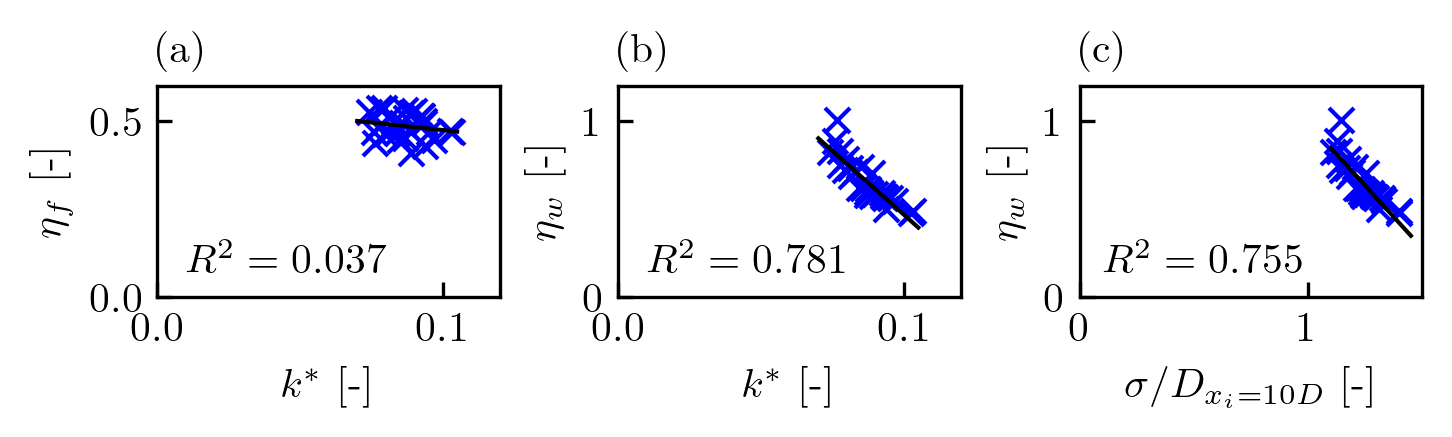
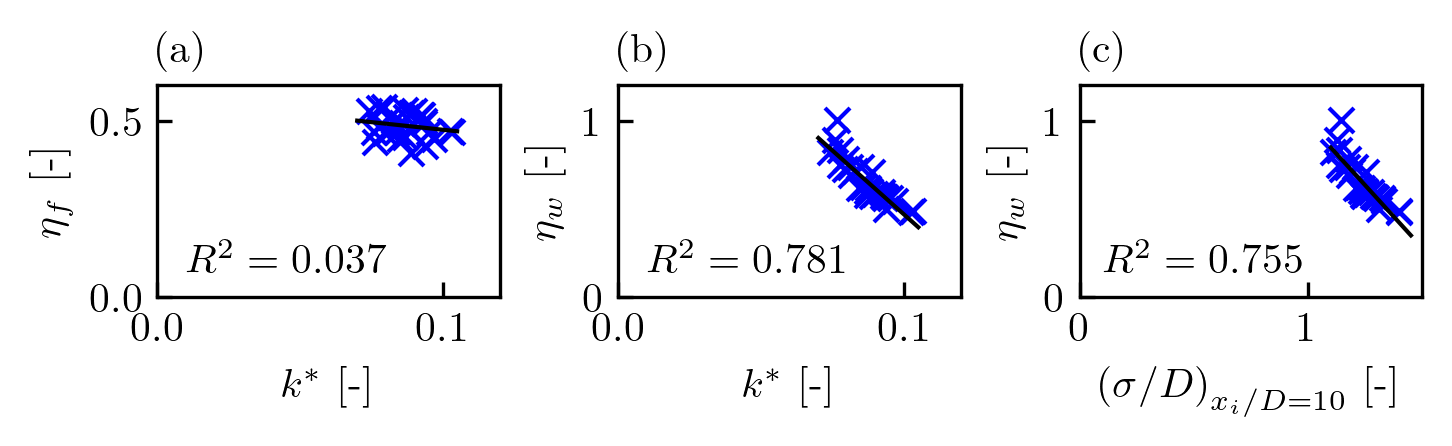
Update figures

diff --git a/paper_figures/aligned_loss_factors/plot_aligned_loss_factors.py b/paper_figures/aligned_loss_factors/plot_aligned_loss_factors.py
@@ -7,7 +7,7 @@ plt.style.use("../style.mplstyle")
 textwidth = 7
 golden_ratio = 1.61803
 cm = 1/2.54
-fig, ax = plt.subplots(figsize=[12*cm,12*cm/(2.5*golden_ratio)], dpi=300)
+fig, ax = plt.subplots(figsize=[12*cm,12*cm/(golden_ratio)], dpi=300)
 
 #load csv file of farm loss factors
 loss_factors = np.genfromtxt('../loss_factors.csv', delimiter=',', dtype=None, names=True, encoding=None)
@@ -37,27 +37,33 @@ index_mask = [5, 40, 15, 41, 25, 42]
 
 tab20 = mpl.colormaps['tab20']
 
-ax.bar(np.arange(6), 1-tsl[index_mask], width=0.2, label=r'$\eta_{TS}$', color=tab20(0))
 ax.bar(np.arange(6)-0.2, total_loss[index_mask], width=0.2, label=r'$C_p/C_{p,Betz}$', color='k')
+ax.bar(np.arange(6), 1-tsl[index_mask], width=0.2, label=r'$\eta_{TS}$', color=tab20(0))
 ax.bar(np.arange(6)+0.2, 1-fsl[index_mask], width=0.2, label=r'$\eta_{FS}$', color=tab20(2))
-ax.set_ylim([0,1.6])
+ax.set_ylim([0,1.1])
 ax.axvline(1.5, c='grey')
 ax.axvline(3.5, c='grey')
-ax.set_xticks(np.arange(6), [r'S', r'A', r'S', r'A', r'S', r'A'], rotation=0)
-ax.text(0.5, 1.55, r'H1000-'+'\n'+r'C5-G4', ha='center', va='top', ma='center')
-ax.text(2.5, 1.55, r'H500-'+'\n'+r'C5-G4', ha='center', va='top', ma='center')
-ax.text(4.5, 1.55, r'H300-'+'\n'+r'C5-G4', ha='center', va='top', ma='center')
-ax.legend(loc='upper center', bbox_to_anchor=(0.5, -0.2), ncol=2)
+ax.set_xticks(np.arange(6), [r'Staggered', r'Aligned', r'Staggered', r'Aligned', r'Staggered', r'Aligned'], rotation=0)
+ax.text(0.5, 1.1, r'H1000-C5-G4', ha='center', va='bottom', ma='center')
+ax.text(2.5, 1.1, r'H500-C5-G4', ha='center', va='bottom', ma='center')
+ax.text(4.5, 1.1, r'H300-C5-G4', ha='center', va='bottom', ma='center')
+ax.legend(loc='upper center', bbox_to_anchor=(0.5, -0.05), ncol=3)
 #ax.plot([-0.5, 1.5], [0.450, 0.450], c='grey', linestyle='--', zorder=0)
 #ax.plot([1.5, 3.5], [0.427, 0.427], c='grey', linestyle='--', zorder=0)
 #ax.plot([3.5, 5.5], [0.369, 0.369], c='grey', linestyle='--', zorder=0)
 ax.set_xlim([-0.5,5.5])
 ax.set_box_aspect(1/golden_ratio)
 ax.grid(which='major', axis='y', color='#DDDDDD', linewidth=0.8)
-ax.grid(which='minor', axis='y', color='#DDDDDD', linewidth=0.5)
+ax.grid(which='minor', axis='y', color='#EEEEEE', linewidth=0.5)
 ax.minorticks_on()
 ax.tick_params(axis='x', which='minor', bottom=False)
 ax.set_axisbelow(True)
+ax.text(0.2+0.05, 0.450+0.025, r'0.450', ha='center', va='bottom', rotation=90)
+ax.text(1.2+0.05, 0.447+0.025, r'0.447', ha='center', va='bottom', rotation=90)
+ax.text(2.2+0.05, 0.427+0.025, r'0.427', ha='center', va='bottom', rotation=90)
+ax.text(3.2+0.05, 0.424+0.025, r'0.424', ha='center', va='bottom', rotation=90)
+ax.text(4.2+0.05, 0.369+0.025, r'0.369', ha='center', va='bottom', rotation=90)
+ax.text(5.2+0.05, 0.369+0.025, r'0.369', ha='center', va='bottom', rotation=90)
 
 #plt.tight_layout()
 plt.savefig('KirbyFig14.png', bbox_inches='tight')

diff --git a/paper_figures/wake_expansion/plot_wake_expansion.py b/paper_figures/wake_expansion/plot_wake_expansion.py
@@ -92,7 +92,7 @@ ax[2].set_box_aspect(1/golden_ratio)
 ax[2].set_ylim([0, 1.2])
 ax[2].set_xlim([0, 1.5])
 ax[2].set_ylabel(r'$\eta_w$ [-]')
-ax[2].set_xlabel(r'$\sigma/D_{x_i=10D}$ [-]')
+ax[2].set_xlabel(r'$\left(\sigma/D\right)_{x_i/D=10} $ [-]')
 ax[2].set_title(r'(c)', loc='left')
 
 #fit linear regression to data
